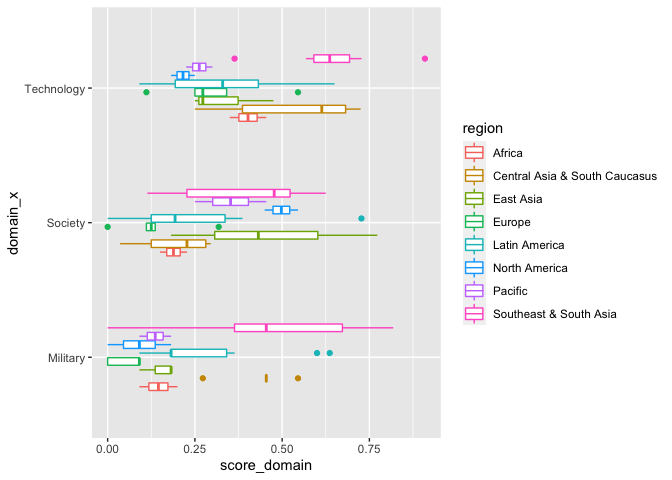
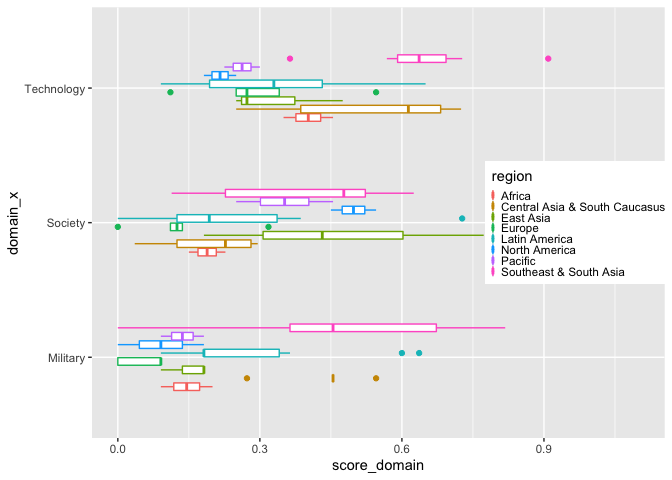
plot legend change

diff --git a/China_Index.md b/China_Index.md
@@ -123,7 +123,10 @@ china_index_domain <- china_index %>%
 ``` r
 china_index_domain %>%
   filter(domain_x == c("Academia", "Domestic Politics", "Economy")) %>%
-  ggplot(aes(x = domain_x, y = score_domain)) + geom_boxplot(aes(color = region), width =0.5) + coord_flip()
+  ggplot(aes(x = domain_x, y = score_domain)) + 
+  geom_boxplot(aes(color = region), width = 0.5) + 
+  coord_flip() + ylim(0,1.1) + 
+  theme(legend.position = c(0.85,0.5), legend.key.size = unit(0.05, "cm"))
 ```
 
 ![](China_Index_files/figure-gfm/plot-1.png)<!-- -->
@@ -131,7 +134,9 @@ china_index_domain %>%
 ``` r
 china_index_domain %>%
   filter(domain_x == c("Foreign Policy", "Law Enforcement", "Media")) %>%
-  ggplot(aes(x = domain_x, y = score_domain)) + geom_boxplot(aes(color = region), width = 0.5) + coord_flip()
+  ggplot(aes(x = domain_x, y = score_domain)) + geom_boxplot(aes(color = region), width = 0.5) + 
+  coord_flip() + ylim(0,1.1) +
+  theme(legend.position = c(0.85,0.3), legend.key.size = unit(0.05, "cm"))
 ```
 
 ![](China_Index_files/figure-gfm/plot-2.png)<!-- -->
@@ -139,7 +144,9 @@ china_index_domain %>%
 ``` r
 china_index_domain %>%
   filter(domain_x == c("Military", "Society", "Technology")) %>%
-  ggplot(aes(x = domain_x, y = score_domain)) + geom_boxplot(aes(color = region), width = 0.5) + coord_flip()
+  ggplot(aes(x = domain_x, y = score_domain)) + geom_boxplot(aes(color = region), width = 0.5) + 
+  coord_flip() + ylim(0,1.1) +
+   theme(legend.position = c(0.85,0.5), legend.key.size = unit(0.05, "cm"))
 ```
 
 ![](China_Index_files/figure-gfm/plot-3.png)<!-- -->
